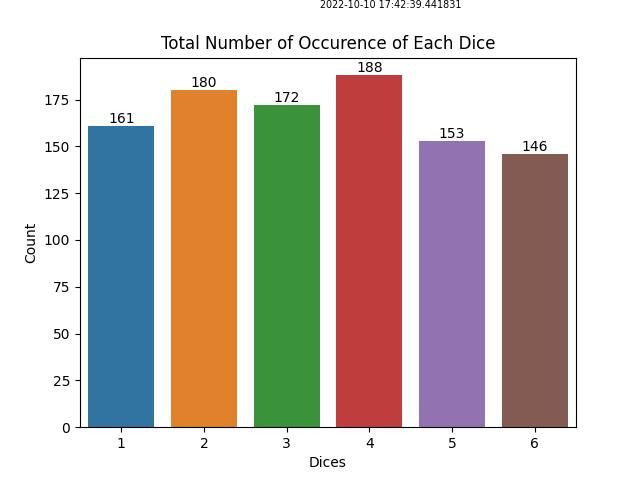
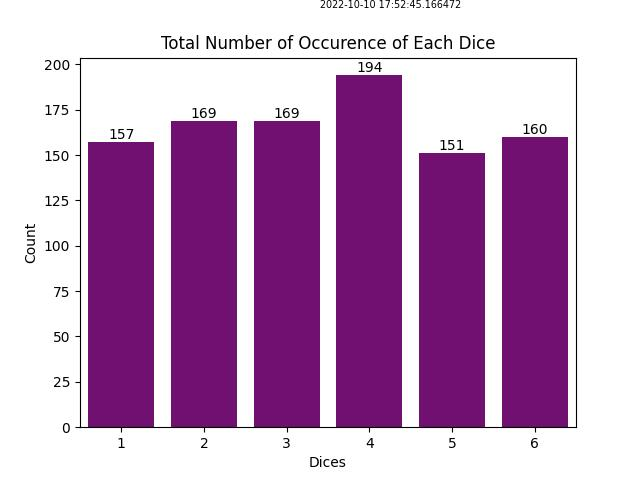
Dice Occurence Plot

diff --git a/Plot_exercise.py b/Plot_exercise.py
@@ -21,7 +21,7 @@ def plot_dices(dices_list, file_name=''):
     count_list = Counter(list(dices_list))
     df = pd.DataFrame.from_records(list(dict(count_list).items()), columns=['dices','count'])
     print(df)
-    chart = sns.barplot(data=df, x='dices', y='count')
+    chart = sns.barplot(data=df, x='dices', y='count', color='purple')
     for i in chart.containers:  #to display bar values
         chart.bar_label(i,)
     
